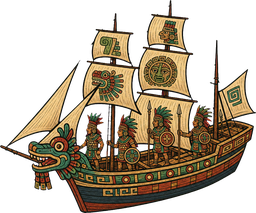
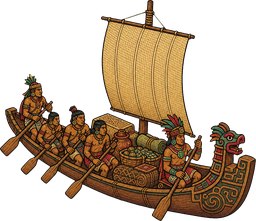
Painted battle effects and their animation; the last per-nation units
Smoke clouds, flames and explosions painted in the woodblock style, and a
BattleFrame that animates them over the map (not yet called from combat). The
six missing African units are painted, and the Aztec knight (now an eagle
warrior on foot) and sail (a trading canoe) repainted.

Claude-Session: https://claude.ai/code/session_01VGBb6mKQ3kspS5r6m29MiP

diff --git a/src/Graphics/IsoView.cs b/src/Graphics/IsoView.cs
@@ -383,6 +383,26 @@ namespace OpenCivOne.Graphics
 			foreach (string name in Array.ConvertAll(UnitNames, n => "unit_" + n))
 				view.LoadObject(objectsFolder, name, height: 56);
 
+			// the painted battle effects: painted/battle/smoke, fire and blast
+			foreach (string effect in new[] { "smoke", "fire", "blast" })
+			{
+				string folder = Path.Combine(hdFolder, "painted", "battle", effect);
+				var list = new List<SKBitmap>();
+
+				if (Directory.Exists(folder))
+				{
+					foreach (string file in Directory.GetFiles(folder, "*.png").OrderBy(f => f, StringComparer.Ordinal))
+					{
+						SKBitmap? b = SKBitmap.Decode(file);
+
+						if (b != null)
+							list.Add(b);
+					}
+				}
+
+				view.battle[effect] = list;
+			}
+
 			// early units in each nation's style: painted/objects/units/STYLE/NAME.png, kept as "unit_NAME@STYLE"
 			string unitStyles = Path.Combine(objectsFolder, "units");
 
@@ -529,6 +549,7 @@ namespace OpenCivOne.Graphics
 
 		public bool Render(float cx, float cy, Scene scene)
 		{
+			this.lastCentre = (cx, cy);
 			int range = (this.width / TileWidth) + (this.height / TileHeight) + 3;
 			int ccx = (int)MathF.Floor(cx), ccy = (int)MathF.Floor(cy);
 			long sig = 17;
@@ -2509,6 +2530,106 @@ namespace OpenCivOne.Graphics
 		}
 
 		private readonly Dictionary<(SKBitmap, string), SKBitmap> toned = new Dictionary<(SKBitmap, string), SKBitmap>();
+
+		private readonly Dictionary<string, List<SKBitmap>> battle = new Dictionary<string, List<SKBitmap>>();
+		private (float X, float Y) lastCentre;
+
+		/// <summary>
+		/// Whether the theme has painted battle effects
+		/// </summary>
+		public bool HasBattleArt => this.battle.TryGetValue("smoke", out var smoke) && smoke.Count > 0 &&
+			this.battle.TryGetValue("blast", out var blast) && blast.Count > 0;
+
+		/// <summary>
+		/// One frame of a battle drawn over the last rendered view with the theme's painted effects: clouds of smoke
+		/// swell over both units with flames flickering inside, then drift off the winner while the loser goes up in a
+		/// painted explosion that fades away. t runs from 0 to 1; cells in map coordinates near the view's centre.
+		/// </summary>
+		public uint[] BattleFrame(float t, (int X, int Y) attacker, (int X, int Y) defender, bool attackerWins, int seed)
+		{
+			int w = this.width, h = this.height;
+			float halfW = TileWidth / 2f, halfH = TileHeight / 2f;
+			(float cx, float cy) = this.lastCentre;
+			SKPoint Screen(float x, float y) => new SKPoint((w / 2f) + ((x - cx - (y - cy)) * halfW), (h / 2f) + ((x - cx + (y - cy)) * halfH));
+
+			SKPoint a = Screen(attacker.X + 0.5f, attacker.Y + 0.5f), d = Screen(defender.X + 0.5f, defender.Y + 0.5f);
+			SKPoint mid = new SKPoint((a.X + d.X) / 2, ((a.Y + d.Y) / 2) - 14);
+			SKPoint loser = attackerWins ? d : a, winner = attackerWins ? a : d;
+			loser = new SKPoint(loser.X, loser.Y - 12);
+
+			using SKBitmap bitmap = new SKBitmap(w, h, SKColorType.Bgra8888, SKAlphaType.Premul);
+			System.Runtime.InteropServices.Marshal.Copy(Array.ConvertAll(this.pixels, v => unchecked((int)v)), 0, bitmap.GetPixels(), this.pixels.Length);
+			using SKCanvas canvas = new SKCanvas(bitmap);
+			using SKPaint paint = new SKPaint { IsAntialias = true };
+			var sampling = new SKSamplingOptions(SKCubicResampler.Mitchell);
+
+			void Draw(SKBitmap b, SKPoint c, float width, float alpha, bool flip = false)
+			{
+				if (alpha <= 0.01f || width < 2)
+					return;
+
+				float hgt = width * b.Height / b.Width;
+				paint.Color = new SKColor(255, 255, 255, (byte)(255 * Math.Clamp(alpha, 0, 1)));
+				canvas.Save();
+
+				if (flip)
+				{
+					canvas.Translate(c.X, 0);
+					canvas.Scale(-1, 1);
+					canvas.Translate(-c.X, 0);
+				}
+
+				using SKImage image = SKImage.FromBitmap(b);
+				canvas.DrawImage(image, new SKRect(c.X - (width / 2), c.Y - (hgt / 2), c.X + (width / 2), c.Y + (hgt / 2)), sampling, paint);
+				canvas.Restore();
+			}
+
+			List<SKBitmap> smoke = this.battle["smoke"], fire = this.battle.TryGetValue("fire", out var f) ? f : new List<SKBitmap>(), blast = this.battle["blast"];
+			var rnd = new Random(seed);
+			float span = MathF.Sqrt(((a.X - d.X) * (a.X - d.X)) + ((a.Y - d.Y) * (a.Y - d.Y)));
+
+			// the smoke: puffs swelling over both units, behind and in front; after the fight they drift off the winner
+			float grow = Math.Clamp(t / 0.3f, 0, 1), clear = Math.Clamp((t - 0.6f) / 0.4f, 0, 1);
+			grow = 1 - ((1 - grow) * (1 - grow));
+
+			for (int k = 0; k < 7; k++)
+			{
+				float along = (k / 6f) - 0.5f;
+				var c = new SKPoint(mid.X + ((d.X - a.X) * along * 0.9f) + (((float)rnd.NextDouble() - 0.5f) * 24),
+					mid.Y + ((d.Y - a.Y) * along * 0.9f) + (((float)rnd.NextDouble() - 0.5f) * 14));
+				float size = (62 + ((float)rnd.NextDouble() * 34) + (span * 0.15f)) * (0.35f + (0.65f * grow));
+				float drift = clear * (30 + (k * 4));
+				var away = new SKPoint(c.X - winner.X, c.Y - winner.Y);
+				float len = MathF.Max(1, MathF.Sqrt((away.X * away.X) + (away.Y * away.Y)));
+				c = new SKPoint(c.X + (away.X / len * drift), c.Y + (away.Y / len * drift) - (clear * 20) + (MathF.Sin((t * 7) + k) * 2));
+				Draw(smoke[k % smoke.Count], c, size, (1 - clear) * (0.85f + (0.15f * grow)), k % 2 == 1);
+			}
+
+			// flames flickering inside the smoke while they fight
+			if (fire.Count > 0 && t > 0.1f && t < 0.62f)
+			{
+				var fr = new Random(seed + (int)(t * 40));
+
+				for (int k = 0; k < 3; k++)
+				{
+					var c = new SKPoint(mid.X + (((float)fr.NextDouble() - 0.5f) * (40 + (span * 0.5f))), mid.Y + (((float)fr.NextDouble() - 0.5f) * 26));
+					Draw(fire[fr.Next(fire.Count)], c, 34 + ((float)fr.NextDouble() * 24), 0.95f, fr.Next(2) == 0);
+				}
+			}
+
+			// the loser's end: a painted explosion that swells and fades
+			if (t > 0.55f)
+			{
+				float b = Math.Clamp((t - 0.55f) / 0.45f, 0, 1);
+				float size = 50 + (b * 90), alpha = b < 0.6f ? 1 : 1 - ((b - 0.6f) / 0.4f);
+				Draw(blast[seed % blast.Count], new SKPoint(loser.X, loser.Y - (b * 10)), size, alpha);
+			}
+
+			canvas.Flush();
+			int[] raw = new int[w * h];
+			System.Runtime.InteropServices.Marshal.Copy(bitmap.GetPixels(), raw, 0, raw.Length);
+			return Array.ConvertAll(raw, v => unchecked((uint)v) | 0xff000000);
+		}
 
 		/// <summary>
 		/// A unit sprite toned down (kept once made): grey by the amount given, then darkened

diff --git a/tests/HDLayerTests/Program.cs b/tests/HDLayerTests/Program.cs
@@ -1287,6 +1287,23 @@ GBitmap other4()
 		for (int i = 0; i < Math.Min(3, cities.Count); i++)
 			Shot($"city{i + 1}.png", 960, 768, largest.Count > i ? largest[i].X + 1.5f : cities[i].X, largest.Count > i ? largest[i].Y + 1 : cities[i].Y);
 
+		// ISO_BATTLE: frames of a battle between the first unit and the cell east of it, to judge the animation
+		if (Environment.GetEnvironmentVariable("ISO_BATTLE") == "1")
+		{
+			var u0 = showScene.Units[0];
+			var bview = OpenCivOne.Graphics.IsoView.Load(showTheme, 960, 768)!;
+			bview.Render(u0.X + 0.5f, u0.Y + 0.5f, showScene);
+
+			for (int f = 0; f <= 10; f++)
+			{
+				uint[] bpx = bview.BattleFrame(f / 10f, (u0.X, u0.Y), (u0.X + 1, u0.Y), true, 5);
+				using var img = new SKBitmap(960, 768, SKColorType.Bgra8888, SKAlphaType.Premul);
+				Marshal.Copy(Array.ConvertAll(bpx, v => unchecked((int)v)), 0, img.GetPixels(), bpx.Length);
+				using var bf = File.Create(Path.Combine(showDir, $"battle{f:00}.png"));
+				img.Encode(bf, SKEncodedImageFormat.Png, 100);
+			}
+		}
+
 		var counts = new int[12];
 		foreach (int t in terr) counts[t]++;
 		Console.WriteLine($"showcase written: {cities.Count} cities, {springs.Count} springs, terrain counts {string.Join(",", counts)}");
